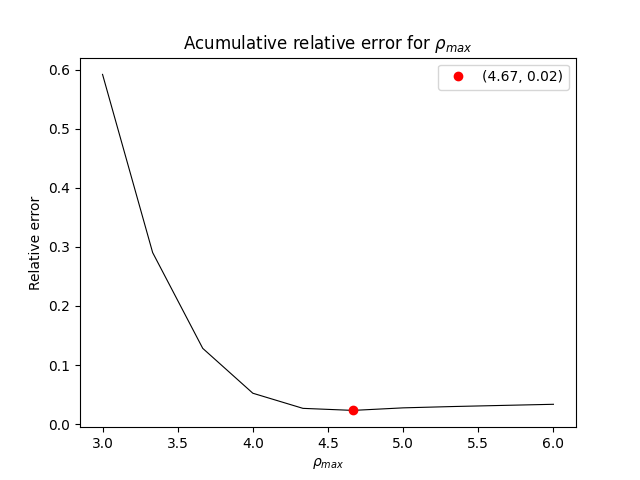
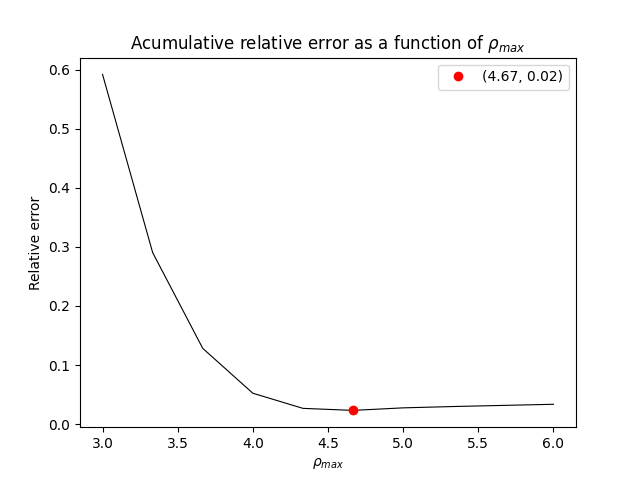
nesten funnet N

Changed region(s): [[0.1875, 0.0625, 0.8125, 0.125]]

diff --git a/project2/main.py b/project2/main.py
@@ -6,6 +6,10 @@ import numpy as np
 
 rho_max = np.linspace(3,6,10)
 acum_rel_err = np.zeros(len(rho_max))
+lambda1 = np.zeros(len(rho_max))
+lambda2 = np.zeros(len(rho_max))
+lambda3 = np.zeros(len(rho_max))
+lambda4 = np.zeros(len(rho_max))
 cpp_codes = "main.cpp class_code.cpp"
 compiler_flags = "-larmadillo -O2"
 executeable = "main.out"
@@ -13,17 +17,22 @@ executeable = "main.out"
 def find_rho_max(run=False):
     n=350
     if run==True:
+        os.system("echo compiling...")
         os.system(" ".join(["c++", "-o", executeable, cpp_codes, compiler_flags]))
         run = "./main.out"
 
         for i in range(len(rho_max)):
-            #filename = "max_rel_err_%s.txt" % i
             filename = "max_rel_err.txt"
             os.system(" ".join([run, str(rho_max[i]), str(filename), str(n)]))
-            acum_rel_err[i] = np.loadtxt(filename)
+            data = np.array((np.loadtxt(filename)))
+            lambda1[i] = data[0]
+            lambda2[i] = data[1]
+            lambda3[i] = data[2]
+            lambda4[i] = data[3]
+            acum_rel_err[i] = data[4]
 
     indx = np.argmin(acum_rel_err)
-    plt.figure(); plt.title('Acumulative relative error for $\\rho_{max}$')
+    plt.figure(); plt.title('Acumulative relative error as a function of $\\rho_{max}$')
     plt.plot(rho_max, acum_rel_err, c='k', lw=0.8,ls='solid')
     plt.plot(rho_max[indx], acum_rel_err[indx], 'ro', label='(%.2f, %.2f)' % (rho_max[indx],acum_rel_err[indx]))
     plt.xlabel('$\\rho_{max}$')
@@ -31,30 +40,61 @@ def find_rho_max(run=False):
     plt.legend()
     plt.savefig('max_rel_err.png')
     #plt.show()
+
+    plt.figure();plt.title('Relative error as a function of $\\rho_{max}$')
+
+    indx1 = np.argmin(lambda1)
+    plt.plot(rho_max,lambda1, 'r', label='$\\lambda_1 = 3$')
+    plt.plot(rho_max[indx1], lambda1[indx1], 'ro', label='(%.2f, %.1e)' % (rho_max[indx1],lambda1[indx1]))
+
+    indx2 = np.argmin(lambda2)
+    plt.plot(rho_max,lambda2,'b', label='$\\lambda_2 = 5$')
+    plt.plot(rho_max[indx2], lambda2[indx2], 'bo', label='(%.2f, %.1e)' % (rho_max[indx2],lambda2[indx2]))
+
+    indx3 = np.argmin(lambda3)
+    plt.plot(rho_max,lambda3,'g', label='$\\lambda_3 = 11$')
+    plt.plot(rho_max[indx3], lambda3[indx3], 'go', label='(%.2f, %.1e)' % (rho_max[indx3],lambda3[indx3]))
+
+    indx4 = np.argmin(lambda4)
+    plt.plot(rho_max,lambda4, 'm',label='$\\lambda_4 = 15$')
+    plt.plot(rho_max[indx4], lambda4[indx4], 'mo', label='(%.2f, %.1e)' % (rho_max[indx4],lambda4[indx4]))
+    plt.xlabel('$\\rho_{max}$')
+    plt.ylabel('Relative error')
+    plt.legend()
+    plt.savefig('rel_err_lmbda.png')
+
     os.system("rm max_rel_err.txt") # removing the txt file created.
-    return np.min(acum_rel_err)
+    final = np.array((rho_max[indx1], rho_max[indx2], rho_max[indx3], rho_max[indx4], rho_max[indx])) #index tilsvarer rhomax for acc, de andre tilsvarer rhomax for lam1, lam2 osv.
+    np.save('rho_values.npy', final)
+find_rho_max(run=True) #hash ut denne
 
-#find_rho_max(run=True)
-
-def find_optimal_N(run = True):
-    rho_max = 4.67  # calculated using the find_rho_max - function
+def find_optimal_N(run = True): #finne optal n for hver lam.
+    rho_vals = np.load('rho_values.npy') #dette er rhomax verdiier for ulike lam og acc
     filename = "n_analysis.txt"
     if run==True:
         os.system(" ".join(["c++", "-o", executeable, cpp_codes, compiler_flags]))
         run = "./main.out"
-    count = 2
-    n = 350
-    while count >1:
-        filename = "n_analysis.txt"
-        print('running for n= %d' % n)
-        os.system(" ".join([run, str(rho_max), str(filename), str(n)]))
-        count = np.loadtxt(filename)
-        n += 10
-        if n>=400:
-            print(" No success, but break cause n too big..")
-            break
+    count = 0
+    n = 350 #teste for disse
 
-    print("Possible success at n = %d" % (n-10))
-    print("Fail count = %d" % count)
+    #err_list = []
+    err = 1
+    for i in range(len(rho_vals)):
+        rho_max = rho_vals[i] #finne optimal n for hver rhomax
+        #n_list[i] (_rhomax1) = [] #lage en liste for hver rho-max
+        while err >1e-4:
+            print('running for n= %d' % n)
+            os.system(" ".join([run, str(rho_max), str(filename), str(n), str(rho_max)]))
+            err = np.loadtxt(filename) #cpp leser error for gitt/hver n. den skal være under 1e-4. ta var på for å plotte? må appende. lage en liste, for å lagre disse verdiene i.!
+            #må lagre n-verdier.
+            print("Error = %d" % count)
+            #liste.append(n) #en liste jeg lager)
+            n += 50
 
-find_optimal_N(run=True)
+            if n>=600:
+                print(" No success, but break cause n too big..")
+                break
+        print("Possible success at n = %d" % (n-10))
+        print("Fail count = %d" % count)
+
+#find_optimal_N(run=True)

diff --git a/project2/class_code.cpp b/project2/class_code.cpp
@@ -31,15 +31,6 @@ void Class_name::Initialize(int n, double V(double rho_i, double omega_r), doubl
   }
   m_A(m_n-1,m_n-1) = d + V(rho_n, omega_r);     // the lower right value has to be filled outsite the loop
   eig_sym(m_eigvals_init, m_A);
-
-  // calculating othe analytic eigenvalues
-  m_eigvals_anal = vec(m_n);
-  for (int i = 0; i < m_n; i++){
-    double rho_i = rho0 + i*h;
-    m_eigvals_anal(i) = d + V(rho_i, omega_r);
-  }
-  //cout << m_A << endl;
-
 }
 
 // Function for solving the general case:
@@ -156,34 +147,26 @@ void Class_name::rel_err_rho_max(string outfilename){
   lambda(2) = 11.;
   lambda(3) = 15.;
   double acum_rel_err = 0;
-  for (int i = 0; i < 4; i++){
-    acum_rel_err += fabs((lambda(i)-m_eigvals(i))/lambda(i));
+  double rel_err = 0;
   ofstream ofile;
   ofile.open(outfilename);
-  ofile << setw(15) << acum_rel_err;
-  ofile.close();
+  for (int i = 0; i < 4; i++){
+    rel_err = fabs((lambda(i)-m_eigvals(i))/lambda(i));
+    acum_rel_err += rel_err;
+    ofile << setw(15) << rel_err<< endl;
   }
+  ofile << setw(15) << acum_rel_err<< endl;
+  ofile.close();
 }
 
 void Class_name::rel_err_N(string outfilename){
   double tol = 1E-4;
-  int err_count = 0;
-  vec lambda(4);
-  lambda(0) = 3.;
-  lambda(1) = 7.;
-  lambda(2) = 11.;
-  lambda(3) = 15.;
-  for (int i = 0; i < 4; i++){
-    double diff = fabs(m_eigvals(i)-lambda(i));
-    //cout << "eigenvalue:  " << m_eigvals_init(i) << endl;
-    if (diff > tol){
-      err_count++;
-    }
+  double rel_err = fabs((m_eigvals(0)-lambda)/lambda);
+  cout << " diff " << rel_err << endl;
   ofstream ofile;
   ofile.open(outfilename);
-  ofile << setw(15) << err_count;
+  ofile << setw(15) << rel_err;
   ofile.close();
-  }
 }
 
 

diff --git a/project2/main.cpp b/project2/main.cpp
@@ -32,6 +32,8 @@ int main(int argc, char *argv[]) {
 
   int n = atol(argv[3]);
 
+  double lambda = atof(argv[4]);
+
 
   Class_name my_solver; //initiate class
   my_solver.Initialize(n, pot_1e, omega_r, rho_max);
@@ -39,7 +41,7 @@ int main(int argc, char *argv[]) {
   my_solver.Unit_test();
   //my_solver.Write_to_file(filename);
   //my_solver.rel_err_rho_max(outfilename);
-  my_solver.rel_err_N(outfilename);
+  my_solver.rel_err_N(outfilename, lambda);
   return 0;
 }
 
